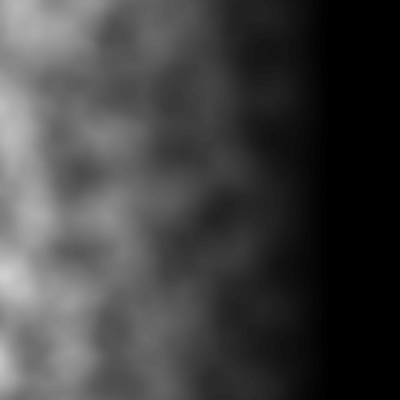
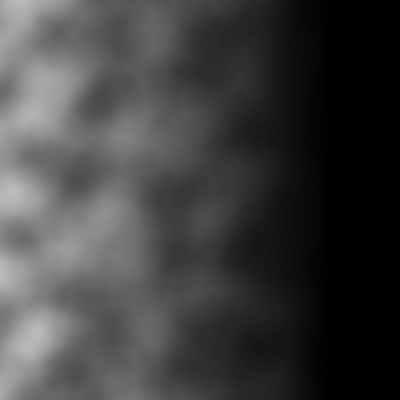
tweaks

diff --git a/test_scripts/testShorelineErosionNoWorker.js b/test_scripts/testShorelineErosionNoWorker.js
@@ -23,13 +23,13 @@ shoreline(400, 400)
         .then(function () {
             return worker.updateTerrain({
                 script: erodeScript,
-                sedDissolve: 0.125,
-                maxSaturation: 0.5,
-                waterAmount: 4,
-                neighborWaterAmount: 2.5,
-                waterFreq: 1/30,
-                evapRate: 0.666,
-                reps: 200,
+                sedDissolve: 0.25,
+                maxSaturation: 0.25,
+                waterAmount: 2,
+                neighborWaterAmount: 0.75,
+                waterFreq: 1/20,
+                evapRate: 0.8,
+                reps: 100,
                 distance: 1,
                 noisy: true
             })
